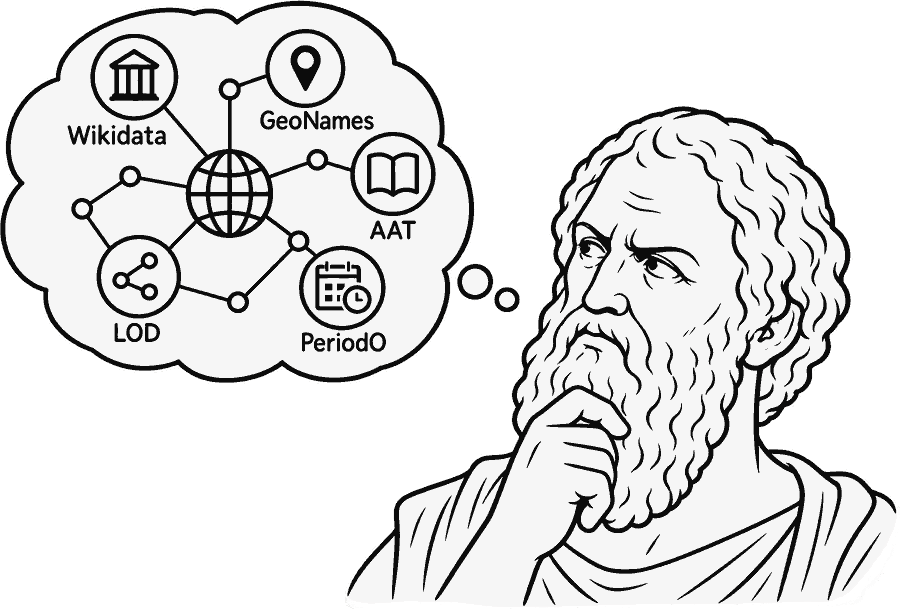
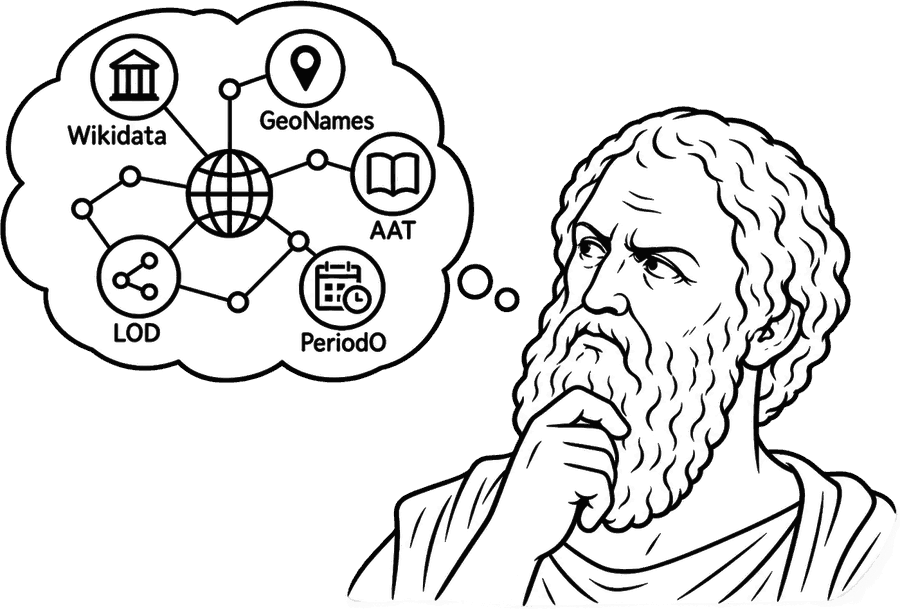
Let the landing-page drawing sit on the page instead of on a white panel
The image's fill was off-white, which showed as a faint rectangle inside
the pure-white panel .plato-hero drew behind it. The fill is now keyed
out: luminance 246 and above is fully transparent, 200 and below fully
opaque, with a ramp between, which leaves the line work and the light
shading on the face and keeps 79% of the image transparent.

Transparency is only worth having if nothing is painted behind it, so the
panel goes too. That would leave black lines invisible on the dark
theme, so the hero is inverted there, which turns the ink white. The
rule covers both the explicitly chosen dark theme and the automatic one,
and excludes an explicitly chosen light theme.

Quantised to 48 colours: over white the loss is 0.64% of pixels differing
by more than 16/255, over the dark page 0.05%. 77 KB.

The poster keeps the filled version, where the drawing sits on a dark
navy panel and the off-white is doing the work.

Claude-Session: https://claude.ai/code/session_017ea4EQmZCjDgTxd1NzhKoK

diff --git a/docs/_static/plato.css b/docs/_static/plato.css
@@ -3,9 +3,14 @@
 table.docutils td, table.docutils th { vertical-align: top; }
 
 /* The landing page's drawing: beside the text on wide screens, above it on narrow ones.
-   A white panel keeps the black line art legible in the dark theme. */
-img.plato-hero { float: right; width: 38%; max-width: 340px; margin: 0 0 1rem 1.5rem;
-  background: #ffffff; border-radius: 12px; padding: 6px; }
+   The drawing is line art on a transparent ground, so it sits on the page itself rather
+   than on a panel. In the dark theme the ink is inverted, which turns black lines white;
+   a white panel would otherwise be a bright rectangle in the middle of a dark page. */
+img.plato-hero { float: right; width: 38%; max-width: 340px; margin: 0 0 1rem 1.5rem; }
+body[data-theme="dark"] img.plato-hero { filter: invert(1); }
+@media (prefers-color-scheme: dark) {
+  body:not([data-theme="light"]) img.plato-hero { filter: invert(1); }
+}
 @media (max-width: 46em) { img.plato-hero { float: none; display: block; width: 75%; margin: 0 auto 1.25rem; } }
 
 /* Space after a list that ends a definition, before the next term. */
